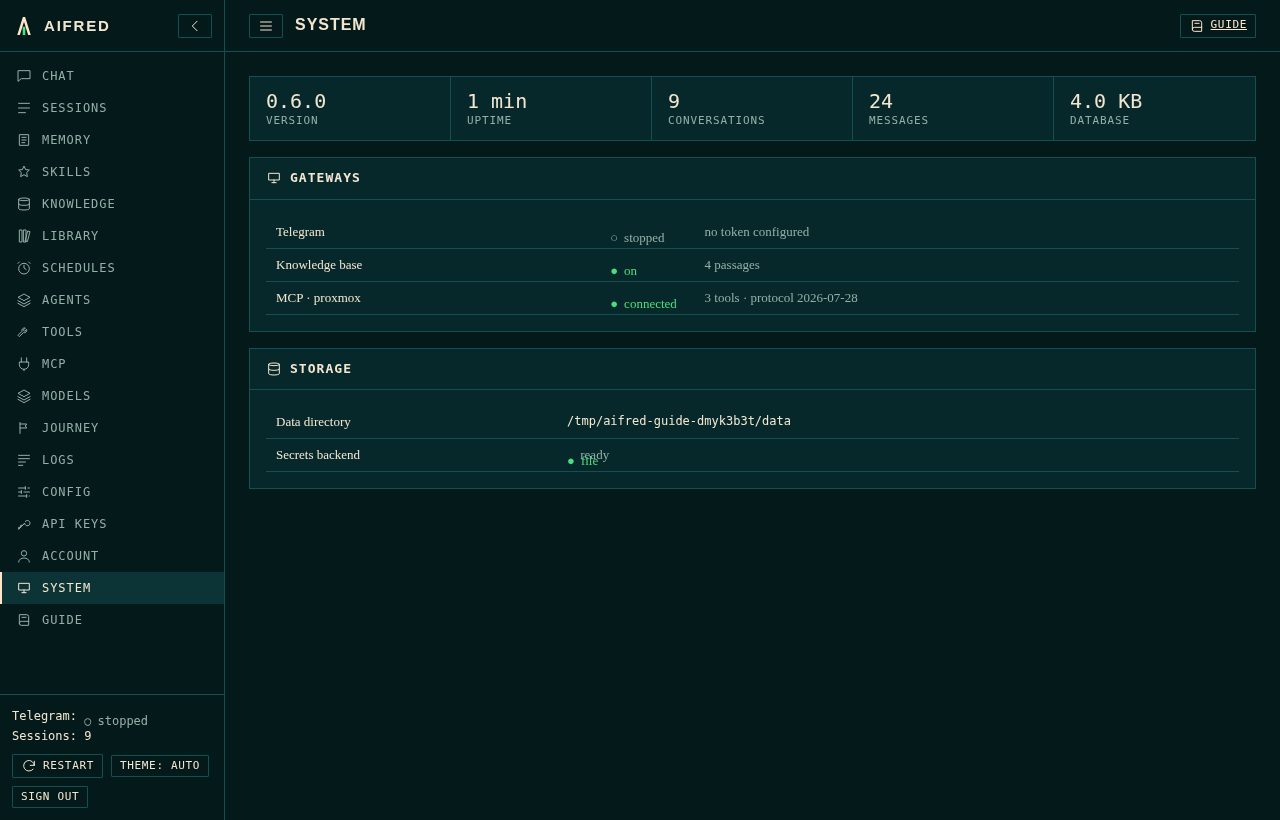
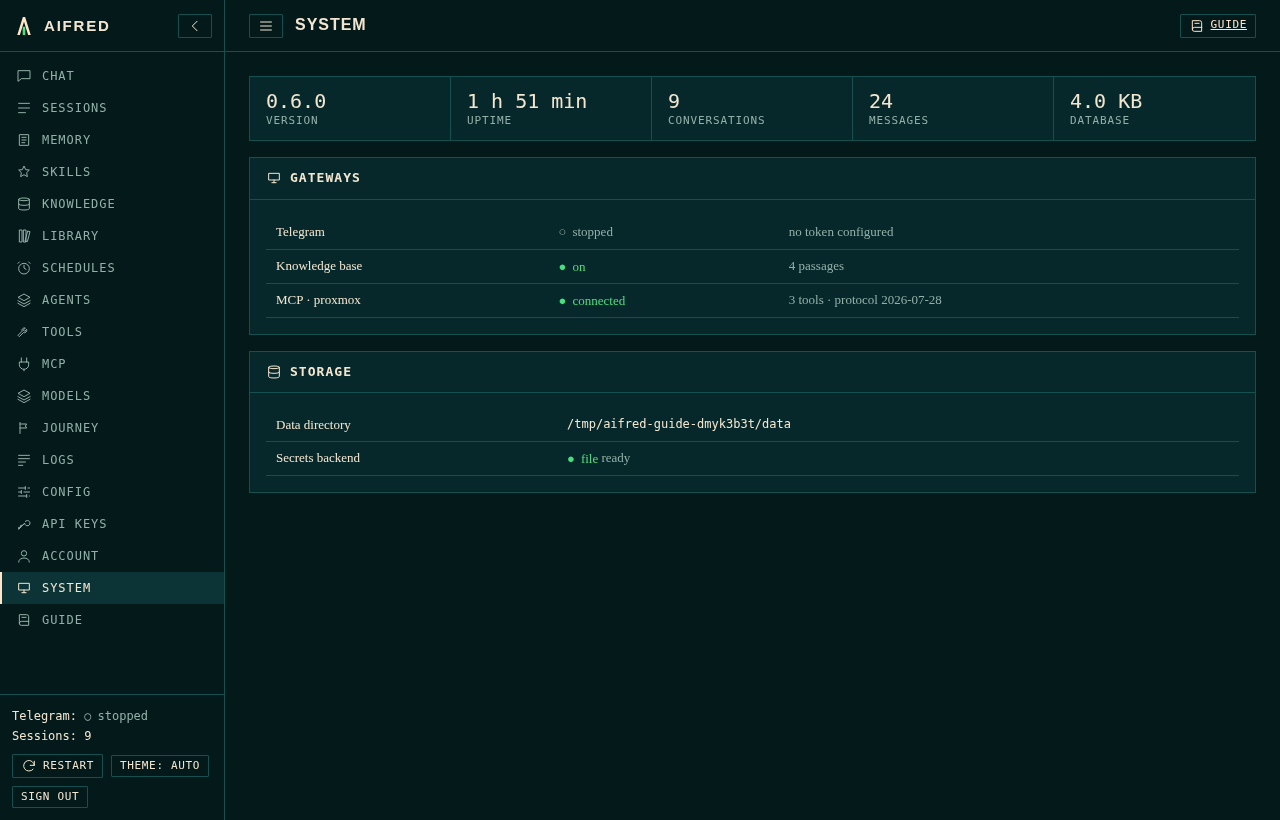
Status dots with text no longer overlap the line below (System, Admin)

diff --git a/aifred/web/static/app.css b/aifred/web/static/app.css
@@ -269,7 +269,8 @@ mark { background: var(--surface-2); color: var(--accent); font-weight: 700; }
 .g-node text { fill: var(--text); font: 11px var(--font-mono); pointer-events: none; }
 .g-node:hover circle, .g-node:focus-visible circle, .g-node.on circle { stroke: var(--text); }
 .g-legend { gap: 14px; font-size: 12px; }
-.dot { display: inline-block; font-style: normal; width: 10px; height: 10px; border-radius: 50%; vertical-align: middle; }
+.dot { display: inline-block; font-style: normal; vertical-align: middle; }
+.dot:empty { width: 10px; height: 10px; border-radius: 50%; }   /* a bare dot; with text the dot is only the bullet */
 .g-entries { margin: 8px 0 0; padding-left: 18px; }
 
 /* Library */

diff --git a/CHANGELOG.md b/CHANGELOG.md
@@ -2,6 +2,11 @@
 
 All notable changes to AIFRED. The format follows [Keep a Changelog](https://keepachangelog.com/); the first release is `0.1.0`.
 
+## [Unreleased]
+
+### Fixed
+- **Status dots with text.** On the System page and the Admin tables, the text next to a status dot (Telegram, the knowledge base, MCP servers, the secrets backend) overlapped the line below. A dot now only gets its fixed box when it is empty.
+
 ## [0.6.2] - 2026-10-29
 
 ### Fixed
